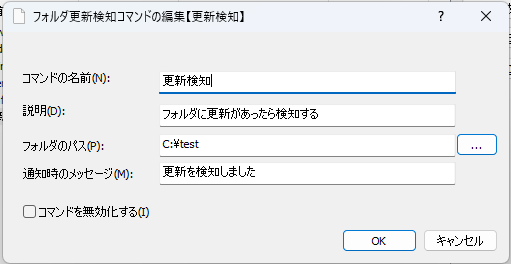
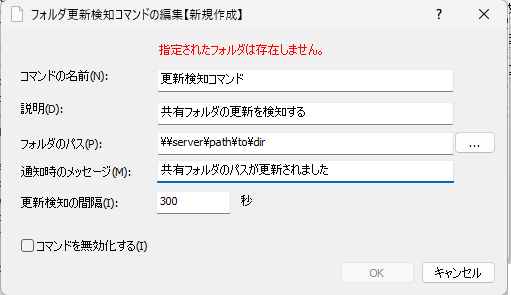
[フォルダ更新検知] 更新通知を行う間隔を設定できるようにした

diff --git a/soyokaze/commands/watchpath/UNCPathTarget.cpp b/soyokaze/commands/watchpath/UNCPathTarget.cpp
@@ -222,11 +222,15 @@ struct UNCPathTarget::PImpl
 	CString mCommandName;
 	CString mPath;
 	CString mMessage;
+	// 間隔(ミリ秒単位)
+	UINT mInterval = 300 * 1000;
 	CString mDetail;
 	// 監視対象パス以下にある要素の更新日時情報
 	DirectoryNode mPrevTimeStamps;
 	// 最後にチェックした時刻
 	uint64_t mLastCheckTime = 0;
+	// 最後に通知した時刻
+	uint64_t mLastNotifyTime = 0;
 };
 
 ////////////////////////////////////////////////////////////////////////////////
@@ -236,15 +240,23 @@ struct UNCPathTarget::PImpl
 
 
 
+/**
+ 	@param[in] cmdName  コマンド名
+ 	@param[in] message  通知メッセージ
+ 	@param[in] path     監視対象パス
+ 	@param[in] interval 間隔(秒単位)
+*/
 UNCPathTarget::UNCPathTarget(
 	const CString& cmdName,
  	const CString& message,
- 	const CString& path
+ 	const CString& path,
+	UINT interval
 ) : in(new PImpl)
 {
 	in->mCommandName = cmdName;
 	in->mMessage = message;
 	in->mPath = path;
+	in->mInterval = interval * 1000;  // ミリ秒単位にする
 }
 
 UNCPathTarget::~UNCPathTarget()
@@ -253,13 +265,13 @@ UNCPathTarget::~UNCPathTarget()
 
 bool UNCPathTarget::IsUpdated()
 {
-	//bool isFirst = in->mLastCheckTime == 0;
-	//if (isFirst == false) {
-	//	DWORD elapsed = GetTickCount64() - in->mLastCheckTime;
-	//	if (elapsed < 5000) {  // FIXME: 間隔調整
-	//		return false;
-	//	}
-	//}
+	bool isFirst = in->mLastNotifyTime == 0;
+	if (isFirst == false) {
+		ULONGLONG elapsed = GetTickCount64() - in->mLastNotifyTime;
+		if (elapsed < in->mInterval) {
+			return false;
+		}
+	}
 
 	// 現在の情報を取得する
 	DirectoryNode currentTS;
@@ -300,6 +312,7 @@ bool UNCPathTarget::IsUpdated()
 
 	in->mDetail.Format(_T("%s %s"), (LPCTSTR)typeStr, (LPCTSTR)changedItem);
 	in->mLastCheckTime = GetTickCount64();
+	in->mLastNotifyTime = in->mLastCheckTime; 
 	in->mPrevTimeStamps.swap(currentTS);
 	return true;
 }

diff --git a/soyokaze/commands/watchpath/LocalPathTarget.cpp b/soyokaze/commands/watchpath/LocalPathTarget.cpp
@@ -176,6 +176,7 @@ struct LocalPathTarget::PImpl
 	CString mMessage;
 	//
 	CString mDetail;
+	UINT mInterval = 300 * 1000;
 
 	// ReadDirectoryChangesWに渡すためのファイルハンドル
 	HANDLE mDirHandle = nullptr;
@@ -183,6 +184,8 @@ struct LocalPathTarget::PImpl
 	OVERLAPPED mOverlapped = {};
 	// 変更通知受信用のバッファ
 	std::vector<BYTE> mBuffer;
+	// 最後に通知した時刻
+	uint64_t mLastNotifyTime = 0;
 };
 
 ////////////////////////////////////////////////////////////////////////////////
@@ -194,12 +197,14 @@ struct LocalPathTarget::PImpl
 LocalPathTarget::LocalPathTarget(
 	const CString& cmdName,
  	const CString& message,
- 	const CString& path
+ 	const CString& path,
+	UINT interval
 ) : in(new PImpl)
 {
 	in->mCommandName = cmdName;
 	in->mMessage = message;
 	in->mPath = path;
+	in->mInterval = interval * 1000;  // ミリ秒単位にする
 }
 
 LocalPathTarget::~LocalPathTarget()
@@ -221,6 +226,15 @@ bool LocalPathTarget::IsUpdated()
 	}
 	ASSERT(in->mOverlapped.hEvent);
 
+	// 前回の通知から時間が経過していない場合はチェックしない
+	bool isFirst = in->mLastNotifyTime == 0;
+	if (isFirst == false) {
+		ULONGLONG elapsed = GetTickCount64() - in->mLastNotifyTime;
+		if (elapsed < in->mInterval) {
+			return false;
+		}
+	}
+
 	// 更新があったか確認する
 	if (WaitForSingleObject(in->mOverlapped.hEvent, 0) == WAIT_TIMEOUT) {
 		return false;
@@ -230,6 +244,9 @@ bool LocalPathTarget::IsUpdated()
 	if (in->PrepareInformation() == false) {
 		return false;
 	}
+
+	// 更新検知した時刻を記憶しておく
+	in->mLastNotifyTime = GetTickCount64();
 
 	return true;  // 更新あり
 }

diff --git a/soyokaze/commands/watchpath/WatchPathCommandParam.cpp b/soyokaze/commands/watchpath/WatchPathCommandParam.cpp
@@ -1,3 +1,4 @@
+// あ
 #include "pch.h"
 #include "WatchPathCommandParam.h"
 #include "commands/core/CommandEntryIF.h"
@@ -12,6 +13,7 @@ namespace watchpath {
 
 CommandParam::CommandParam() :
  	mNotifyMessage(_T("更新を検知")), 
+	mWatchInterval(300),
 	mIsDisabled(false)
 {
 }
@@ -28,6 +30,7 @@ bool CommandParam::operator == (const CommandParam& rhs) const
 	       mDescription == rhs.mDescription &&
 	       mPath == rhs.mPath &&
 	       mNotifyMessage == rhs.mNotifyMessage &&
+	       mWatchInterval == rhs.mWatchInterval &&
 	       mIsDisabled == rhs.mIsDisabled;
 }
 
@@ -38,6 +41,7 @@ bool CommandParam::Save(CommandEntryIF* entry)
 	entry->Set(_T("description"), mDescription);
 	entry->Set(_T("path"), mPath);
 	entry->Set(_T("message"), mNotifyMessage);
+	entry->Set(_T("watchinterval"), (int)mWatchInterval);
 	entry->Set(_T("isDisabled"), mIsDisabled);
 
 	return true;
@@ -51,6 +55,7 @@ bool CommandParam::Load(CommandEntryIF* entry)
 	mDescription = entry->Get(_T("description"), _T(""));
 	mPath = entry->Get(_T("path"), _T(""));
 	mNotifyMessage = entry->Get(_T("message"), _T(""));
+	mWatchInterval = (UINT)entry->Get(_T("watchinterval"), 300);
 	mIsDisabled = entry->Get(_T("isDisabled"), false);
 
 	return true;
@@ -63,6 +68,7 @@ void CommandParam::swap(CommandParam& rhs)
 	std::swap(mDescription, rhs.mDescription);
 	std::swap(mPath, rhs.mPath);
 	std::swap(mNotifyMessage, rhs.mNotifyMessage);
+	std::swap(mWatchInterval, rhs.mWatchInterval);
 	std::swap(mIsDisabled, rhs.mIsDisabled);
 }
 

diff --git a/soyokaze/commands/watchpath/WatchPathCommand.cpp b/soyokaze/commands/watchpath/WatchPathCommand.cpp
@@ -157,6 +157,7 @@ bool WatchPathCommand::Load(CommandEntryIF* entry)
 	PathWatcher::ITEM item;
 	item.mPath = in->mParam.mPath;
 	item.mMessage = in->mParam.mNotifyMessage;
+	item.mInterval = in->mParam.mWatchInterval;
 	PathWatcher::Get()->RegisterPath(in->mParam.mName, item);
 
 	return true;
@@ -191,6 +192,7 @@ bool WatchPathCommand::NewDialog(Parameter* param)
 		PathWatcher::ITEM item;
 		item.mPath = paramNew.mPath;
 		item.mMessage = paramNew.mNotifyMessage;
+		item.mInterval = paramNew.mWatchInterval;
 		PathWatcher::Get()->RegisterPath(paramNew.mName, item);
 	}
 
@@ -234,6 +236,7 @@ bool WatchPathCommand::Apply(launcherapp::core::CommandEditor* editor)
 		PathWatcher::ITEM item;
 		item.mPath = in->mParam.mPath;
 		item.mMessage = in->mParam.mNotifyMessage;
+		item.mInterval = in->mParam.mWatchInterval;
 		watcher->RegisterPath(GetName(), item);
 	}
 
@@ -259,6 +262,7 @@ bool WatchPathCommand::CreateNewInstanceFrom(launcherapp::core::CommandEditor* e
 		PathWatcher::ITEM item;
 		item.mPath = paramNew.mPath;
 		item.mMessage = paramNew.mNotifyMessage;
+		item.mInterval = paramNew.mWatchInterval;
 		PathWatcher::Get()->RegisterPath(paramNew.mName, item);
 	}
 

diff --git a/soyokaze/resource.h b/soyokaze/resource.h
@@ -184,6 +184,7 @@
 #define IDC_EDIT_HOTKEY                 1022
 #define IDC_EDIT_PARAM2                 1022
 #define IDC_BUTTON_RESOLVESHORTCUT      1022
+#define IDC_EDIT_INTERVAL               1022
 #define IDC_EDIT_PATH0                  1023
 #define IDC_EDIT_PATH2                  1023
 #define IDC_EDIT_HOTKEY_DOWN            1023
@@ -422,6 +423,7 @@
 #define IDC_CHECK_SANDSHOTKEY           1194
 #define IDC_STATIC_FRAME                1195
 #define IDC_STATIC_MODSANDS             1196
+#define IDC_STATIC_CACHECANDIDATES      1197
 #define ID_VIEW_HELP                    32775
 
 // Next default values for new objects
@@ -430,7 +432,7 @@
 #ifndef APSTUDIO_READONLY_SYMBOLS
 #define _APS_NEXT_RESOURCE_VALUE        240
 #define _APS_NEXT_COMMAND_VALUE         32776
-#define _APS_NEXT_CONTROL_VALUE         1197
+#define _APS_NEXT_CONTROL_VALUE         1198
 #define _APS_NEXT_SYMED_VALUE           101
 #endif
 #endif

diff --git a/soyokaze/commands/watchpath/PathWatcher.cpp b/soyokaze/commands/watchpath/PathWatcher.cpp
@@ -196,10 +196,10 @@ void PathWatcher::RegisterPath(const CString& cmdName, const ITEM& item)
 		}
 
 		if (PathIsUNC(item.mPath) == FALSE) {
-			in->mTargets[cmdName] = new LocalPathTarget(cmdName, item.mMessage,item.mPath);
+			in->mTargets[cmdName] = new LocalPathTarget(cmdName, item.mMessage, item.mPath, item.mInterval);
 		}
 		else {
-			in->mTargets[cmdName] = new UNCPathTarget(cmdName, item.mMessage,item.mPath);
+			in->mTargets[cmdName] = new UNCPathTarget(cmdName, item.mMessage,item.mPath, item.mInterval);
 		}
 	}
 	in->StartWatch();

diff --git a/soyokaze/commands/watchpath/WatchPathCommandParam.h b/soyokaze/commands/watchpath/WatchPathCommandParam.h
@@ -22,10 +22,18 @@ public:
 	void swap(CommandParam& rhs);
 
 public:
+	// コマンド名
 	CString mName;
+	// 説明
 	CString mDescription;
+	// 監視対象パス
 	CString mPath;
+	// 更新検知時の通知メッセージ
 	CString mNotifyMessage;
+	// 更新検知後の間隔(秒単位)
+	// 指定秒数が経過するまで次の通知をしない
+	UINT mWatchInterval;    
+	// 無効にする
 	bool mIsDisabled;
 };
 

diff --git a/soyokaze/commands/watchpath/WatchPathCommandEditDialog.cpp b/soyokaze/commands/watchpath/WatchPathCommandEditDialog.cpp
@@ -57,6 +57,7 @@ void CommandEditDialog::DoDataExchange(CDataExchange* pDX)
 	DDX_Text(pDX, IDC_EDIT_DESCRIPTION, mParam.mDescription);
 	DDX_Text(pDX, IDC_EDIT_PATH, mParam.mPath);
 	DDX_Text(pDX, IDC_EDIT_MESSAGE, mParam.mNotifyMessage);
+	DDX_Text(pDX, IDC_EDIT_INTERVAL, mParam.mWatchInterval);
 	DDX_Check(pDX, IDC_CHECK_DISABLE, mParam.mIsDisabled);
 }
 

diff --git a/soyokaze/commands/watchpath/LocalPathTarget.h b/soyokaze/commands/watchpath/LocalPathTarget.h
@@ -10,7 +10,7 @@ namespace watchpath {
 class LocalPathTarget : public WatchTarget
 {
 public:
-	LocalPathTarget(const CString& cmdName, const CString& message, const CString& path);
+	LocalPathTarget(const CString& cmdName, const CString& message, const CString& path, UINT interval);
 	virtual ~LocalPathTarget() ;
 
 	bool IsUpdated() override;

diff --git a/soyokaze/commands/watchpath/UNCPathTarget.h b/soyokaze/commands/watchpath/UNCPathTarget.h
@@ -10,7 +10,7 @@ namespace watchpath {
 class UNCPathTarget : public WatchTarget
 {
 public:
-	UNCPathTarget(const CString& cmdName, const CString& message, const CString& path);
+	UNCPathTarget(const CString& cmdName, const CString& message, const CString& path, UINT interval);
 	virtual ~UNCPathTarget() ;
 
 	bool IsUpdated() override;

diff --git a/soyokaze/commands/watchpath/PathWatcher.h b/soyokaze/commands/watchpath/PathWatcher.h
@@ -8,8 +8,12 @@ class PathWatcher
 {
 public:
 	struct ITEM {
+		// 監視対象パス
 		CString mPath;
+		// 通知メッセージ
 		CString mMessage;
+		// 通知の間隔(前回の通知から次の通知までの間隔、秒数)
+		UINT mInterval;
 	};
 private:
 	PathWatcher();

diff --git a/doc/help.md b/doc/help.md
@@ -1479,8 +1479,12 @@ Excelで定義した辞書データをインクリメンタルに検索するこ
   - 更新を検知したいフォルダのパス
 - `通知時のメッセージ`
   - 更新検知通知に表示する文言を指定する
+- `更新検知の間隔`
+  - 指定した秒数が経過するまで、更新を検知しても次の通知を行わない  
+共有フォルダ上のファイルを誰かが直接編集作業をしていることにより頻繁に通知が来るのを避けるための設定
 - `コマンドを無効化する`
-  - チェックすると更新検知を行わない
+  - チェックすると更新検知を行わない  
+一時的に無効化したいがコマンドは残しておきたい、というときのための設定
 
 ##### 動作の説明
 
@@ -1490,7 +1494,7 @@ Excelで定義した辞書データをインクリメンタルに検索するこ
   - ローカルパスの場合は`ReadDirectoryChangesW` APIを用いて対象フォルダの更新を検知する
   - ネットワークパスの場合は独自の処理で検知する
   - 手元で試した感じ、`ReadDirectoryChangesW`はネットワークパスの場合に安定して検知できなかっため
-  - 個人的な用途としてはファイルサーバ上の特定フォルダの更新検知であり、ネットワークパスで使えないと意味ないので・・
+  - ツール作成者本人が想定する用途としてはファイルサーバ上の特定フォルダの更新検知であり、ネットワークパスで使えないと意味ないので・・
 
 - [スタートメニューに登録](#基本ショートカット登録)してある場合は、トーストをクリックすると、監視対象フォルダを開くことができる
 
